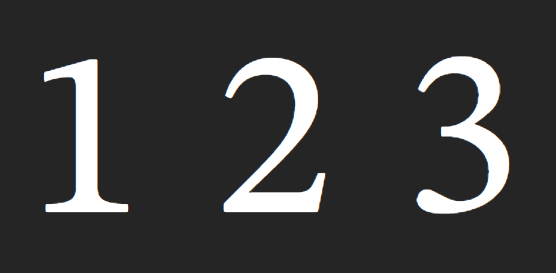
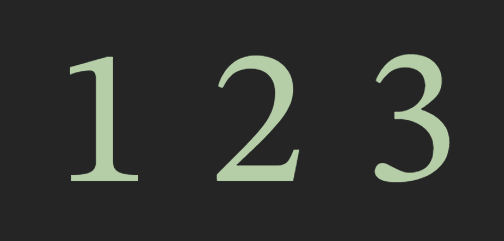
Update README with new node types

Changed region(s): [[0.0595, 0.2033, 0.2976, 0.7842], [0.3869, 0.2033, 0.5952, 0.7842], [0.744, 0.2033, 0.9226, 0.7842]]

diff --git a/README.md b/README.md
@@ -81,13 +81,16 @@ BarNotation supports a growing list of structured math elements:
 | `root-wrapper`          | `RootWrapperNode`     | Holds your math cell's expression, used in toLatex to turn it into a block equation.                                      | (None)| Auto-created once per MathCell |
 | `inline-container`      | `InlineContainerNode` | Container for an expression (sequence of nodes).                                                                          | <div align="center"><img src="docs/readme-images/node-type-render-screenshots/render-ic.png" alt="Inline container example" width="100" /></div> | For every transform that leads to new child nodes, child is inline-container |
 | `group`                 | `GroupNode`           | Bracketed expression.                                                                                                     | <div align="center"><img src="docs/readme-images/node-type-render-screenshots/render-group.png" alt="Group node example" width="100" /></div> | Type brackets. App recognizes when pair is found |
-| `fraction`              | `FractionNode`        | A fraction with numerator and denominator.                                                                                | <div align="center"><img src="docs/readme-images/node-type-render-screenshots/render-frac.png" alt="Fraction example" width="100" /></div> | `/` or `\frac `|  
-| `nth-root`              | `NthRootNode`         | A root with an optional index.                                                                                            | <div align="center"><img src="docs/readme-images/node-type-render-screenshots/render-sqrt.png" alt="Nth root example" width="100" /></div> | Type `\sqrt` |
+| `fraction` (fraction)             | `FractionNode`        | A fraction with numerator and denominator.                                                                                | <div align="center"><img src="docs/readme-images/node-type-render-screenshots/render-frac.png" alt="Fraction example" width="100" /></div> | `/` or `\frac `|  
+| `fraction` (binom)             | `FractionNode`        | Special type of fraction-like structure representing a binomial coefficient. | <div align="center"><img src="docs/readme-images/node-type-render-screenshots/render-binom.png" alt="Binomial coefficient example" width="100" /></div>|`\binom `|  
+| `nth-root`              | `NthRootNode`         | A root with an optional index.| <div align="center"><img src="docs/readme-images/node-type-render-screenshots/render-sqrt.png" alt="Nth root example" width="100" /></div> | Type `\sqrt` |
 | `big-operator`          | `BigOperatorNode`     | Operators with upper/lower bounds like `∑`, `∏`.                                                                          | <div align="center"><img src="docs/readme-images/node-type-render-screenshots/render-bigop.png" alt="Big operator example" width="100" /></div> | E.g. `\sum `, `\int ` |
 | `childed`               | `ChildedNode`         | Sub/superscript left or right of base, jump to new child depending on applied shortcut. Left side only reached by cursor. | <div align="center"><img src="docs/readme-images/node-type-render-screenshots/render-subsup.png" alt="Sub/superscript example" width="100" /></div> | `^` (= `Shift` + `6`) or `_` (= `Shift` + `-`) |
 | `actsymb`               | `ChildedNode`         | Actuarial-style notation, same as above but app knows to use latex syntax as defined by the `\actuarialsymbol` package.   | <div align="center"><img src="docs/readme-images/node-type-render-screenshots/render-actsymb.png" alt="Actuarial symbol example" width="100" /></div> | `Side` + `height`, where `Side` is [`Shift` + `Ctrl` (left) or `Alt` (right)] and `height` is [`6` (up) or `-` (down)]
-| `accented` (predefined) | `AccentedNode`        | Decorations above or below. | <div align="center"><img src="docs/readme-images/node-type-render-screenshots/render-angl.png" alt="Predefined accent example" width="100" /></div> | Type commands like `\hat`, `\angl`, `\bar` |
-| `accented` (custom)     | `AccentedNode`        | Custom over/under annotations (overset/underset).                                                                         | <div align="center"><img src="docs/readme-images/node-type-render-screenshots/render-underset.png" alt="Custom accent example" width="100" /></div> | `Shift` + `ArrowUp` or `ArrowDown` |
+| `decorated` | `DecoratedNode`        | Decorations above or below. | <div align="center"><img src="docs/readme-images/node-type-render-screenshots/render-angl.png" alt="Decoration example" width="100" /></div> | Type commands like `\hat`, `\angl`, `\bar` |
+| `overunderset` (overunderset)     | `OverUndersetNode`        | Custom over/under annotations (LaTeX's overset/underset).                                                                         | <div align="center"><img src="docs/readme-images/node-type-render-screenshots/render-underset.png" alt="Underset example" width="100" /></div> | `Shift` + `ArrowUp` or `ArrowDown` |
+| `overunderset` (nthtopbottom)  | `OverUndersetNode`        | Special type of over/underset representing precedences in actuarial notation.                                                                         | <div align="center"><img src="docs/readme-images/node-type-render-screenshots/render-precedence.png" alt="Precedence example" width="100" /></div> | `Alt` + `ArrowUp` or `ArrowDown` |
+| `matrix` | `MatrixNode`        | Matrix or vector (a vector is a 1xn or mx1 matrix, just like in LaTeX). | <div align="center"><img src="docs/readme-images/node-type-render-screenshots/render-matrix.png" alt="Matrix example" width="100" /></div> | `\matrix`, `\pmatrix`, ... (different bracket types). Use `Ctrl` + `Arrow keys` to insert new rows and columns. |
 
 ## 📷 Screenshots
 
@@ -516,7 +519,6 @@ Planned features and improvements include:
 - [ ] Bulk select of collection entries (for copying to another collection or bulk-delete)
 - [ ] Advanced search in collections and/or notes on inclusion/exclusion or depth of math node type(s)
 - [ ] Enable custom names on collection entries, and include it in search logic. Can be a button on hover, but single char is so small, I think either "edit mode" or a new modal for modifying entries (name, node, count). Latter may be overly complex for what it adds to the experience
-- [ ] Add `binom`, `vector` and `matrix` math node types
 - [ ] Add `cases` math node type
 - [ ] Add `multiline-equation` math node type
 - [ ] Proper bracket handling (right now all brackets become parentheses, while LaTeX has fancy stuff to make the brackets as tall as the stuff inside)
